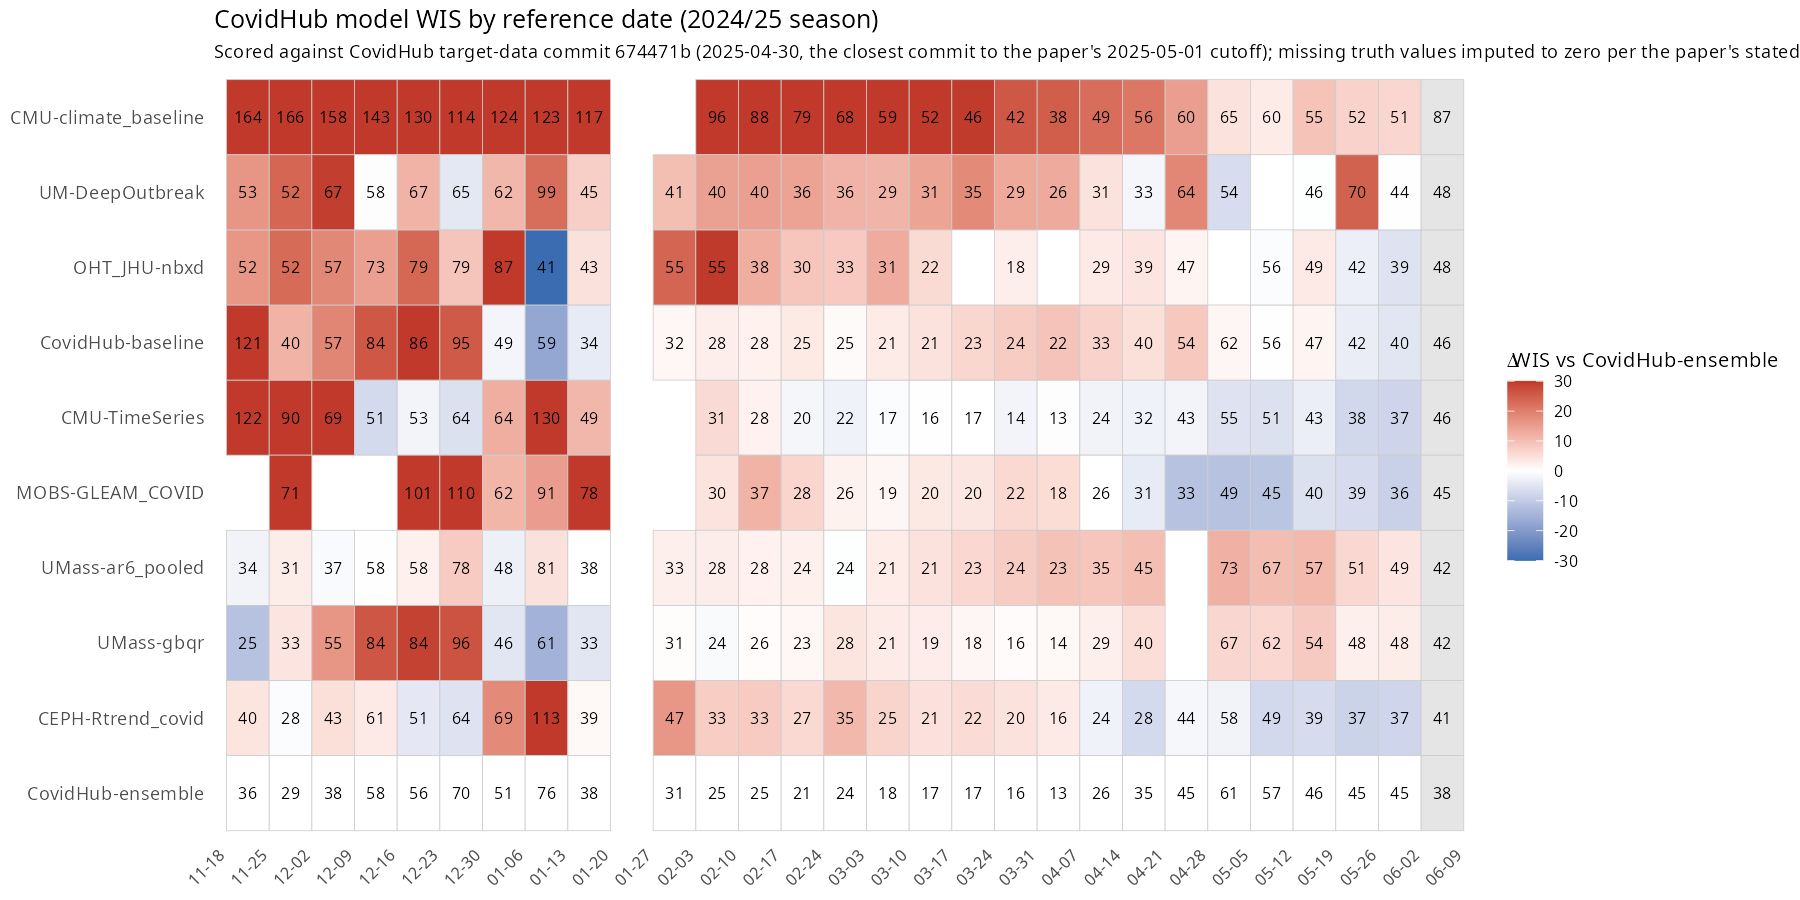
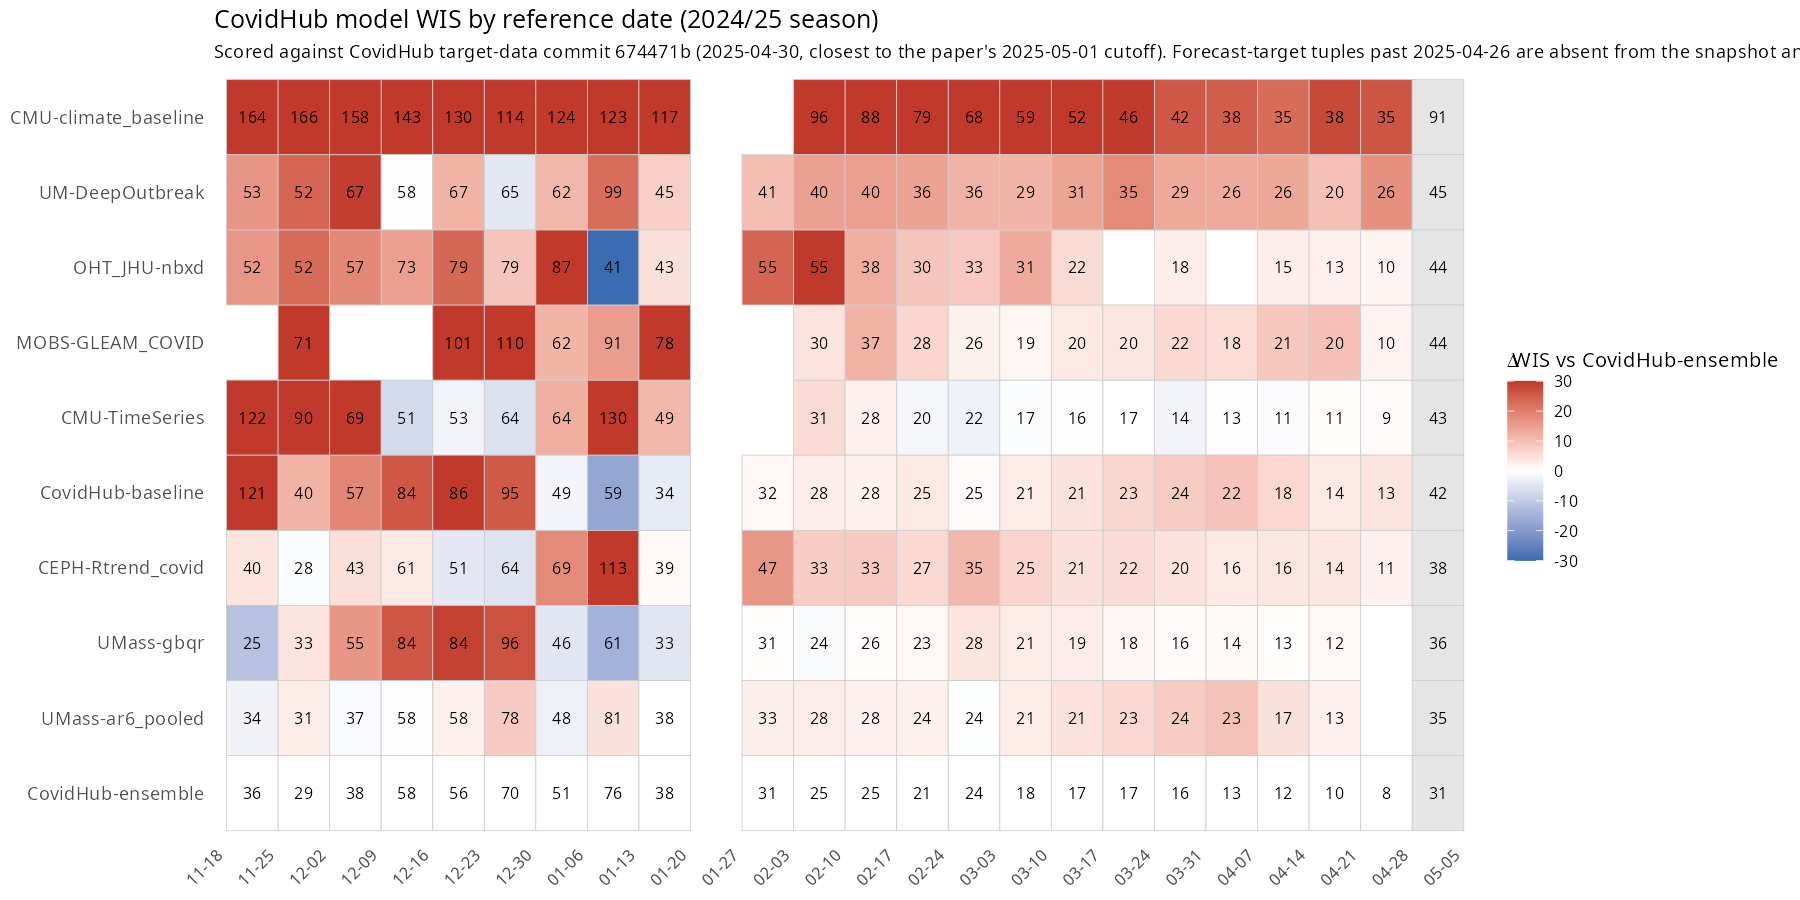
Drop targets past snapshot rather than impute zero
"missing values in the dataset" most naturally means NaN cells inside the
snapshot, not entire forecast-target tuples for dates the snapshot doesn't
cover. The 2025-04-30 CovidHub CSV has no NaN cells, so the rule is a no-op;
forecasts whose target_end_date is past 2025-04-26 are dropped instead.

22 of 27 reference dates have at least one scorable horizon. Over those 22
cells the CovidHub-ensemble row averages 33.09 in Aygün et al. Fig 3b vs
31.36 here (sum_abs_diff 38.3). The remaining 5 ref dates (2025-05-03 to
2025-05-31) have Aygün values 10-13 that cannot be computed from any
2025-05-01-cutoff snapshot.

diff --git a/README.md b/README.md
@@ -1,24 +1,26 @@
 # covidhub-rescore
 
-Re-scores CovidHub forecasts for the 2024/25 season using the methodology Aygün et al. describe (2026, *Nature*, doi:[10.1038/s41586-026-10658-6](https://doi.org/10.1038/s41586-026-10658-6)) and plots a heat-map comparable to their Figure 3b.
+Code to re-scores CovidHub forecasts for the 2024/25 season using the methodology described in Aygün et al. (2026, *Nature*, doi:[10.1038/s41586-026-10658-6](https://doi.org/10.1038/s41586-026-10658-6)), and to plot a heat-map comparable to Figure 3b.
 
-The paper's only stated preprocessing is one sentence — *"missing values in the dataset were replaced by zeros to enable tree search to find executable code with the criterion score (WIS)"* — applied to a single snapshot, *"available as of 2025-05-01 for the entire retrospective season"*.
+Applies the same preprocessing, as per the paper "missing values in the dataset were replaced by zeros to enable tree search to find executable code with the criterion score (WIS)" and uses a single snapshot, "available as of 2025-05-01 for the entire retrospective season".
 
 Forecasts and target data come from <https://github.com/CDCgov/covid19-forecast-hub>. Truth is the `value` column of the target-data CSV at commit `674471b` (2025-04-30, the closest commit to 2025-05-01); per the CovidHub data dictionary this maps to NHSN HRD `totalconfc19newadm`.
 
 ## Outputs
 
-- `output/wis_scores.csv` — mean WIS per (model × reference_date) for every CovidHub-submitted model with ≥75 % season coverage.
+- `output/wis_scores.csv` — mean WIS per (model × reference_date) for every CovidHub-submitted model
 - `output/heatmap.png` — Figure 3b-style heat-map, coloured relative to the CovidHub-ensemble row.
 - `output/comparison_with_aygun.csv` — replicated CovidHub-ensemble and UMass-ar6_pooled cells against the values shown in Aygün et al. Fig 3b.
 
+The 2025-04-30 snapshot has no NaN cells inside its observed range (52 jurisdictions × 25 weeks ending 2025-04-26), so the "replace by zero" rule has nothing to act on. Forecast-target tuples whose `target_end_date` falls past 2025-04-26 are not in the snapshot at all and are dropped from scoring; they aren't "missing values in the dataset" in any natural reading of that phrase.
+
 ## Findings
 
-The pipeline doesn't reproduce the paper's headline. Their CovidHub-ensemble row averages 28.96 WIS (rounded to 29 in the text); a literal implementation of the same recipe gives **31.4** at the same snapshot.
+The pipeline doesn't reproduce the paper's headline. 22 of the 27 reference dates in Fig 3b have at least one horizon whose target falls within the snapshot; the remaining 5 (2025-05-03 to 2025-05-31) have Aygün values of 10-13 that cannot be computed from a 2025-05-01-cutoff snapshot at all. Over the 22 scorable reference dates, the CovidHub-ensemble row averages **33.09** in the paper vs **31.4** in this replication (sum of absolute per-cell differences: 38.3 across the 22 cells).
 
 ## Method
 
-For each quantile prediction in a model's submission, look up the truth at the (location, target_end_date) in commit `674471b`. If it's missing because the target date falls past the snapshot's last observed week (2025-04-26), impute zero. Score using `scoringutils::score()` on a `forecast_quantile` object — that's `count_median_twice = FALSE` by default, the Bracher (2021) form used by CovidHub and FluSight. Average over the 52 jurisdictions and 4 horizons in each (model, reference_date) cell.
+For each quantile prediction in a submission, look up the truth at the (location, target_end_date) in commit `674471b`; drop predictions whose target date is past the snapshot's last observed week. Score using `scoringutils::score()` on a `forecast_quantile` object (`count_median_twice = FALSE`, the Bracher 2021 form used by CovidHub and FluSight). Average over 52 jurisdictions × 4 horizons in each (model, reference_date) cell.
 
 Reference dates: 27 Saturdays from 2024-11-23 to 2025-05-31. 2025-01-25 is dropped because no CovidHub model submitted that week. Horizons 0:3, Aygün's "current week and three subsequent weeks". Jurisdictions are 50 states plus DC and PR.
 
